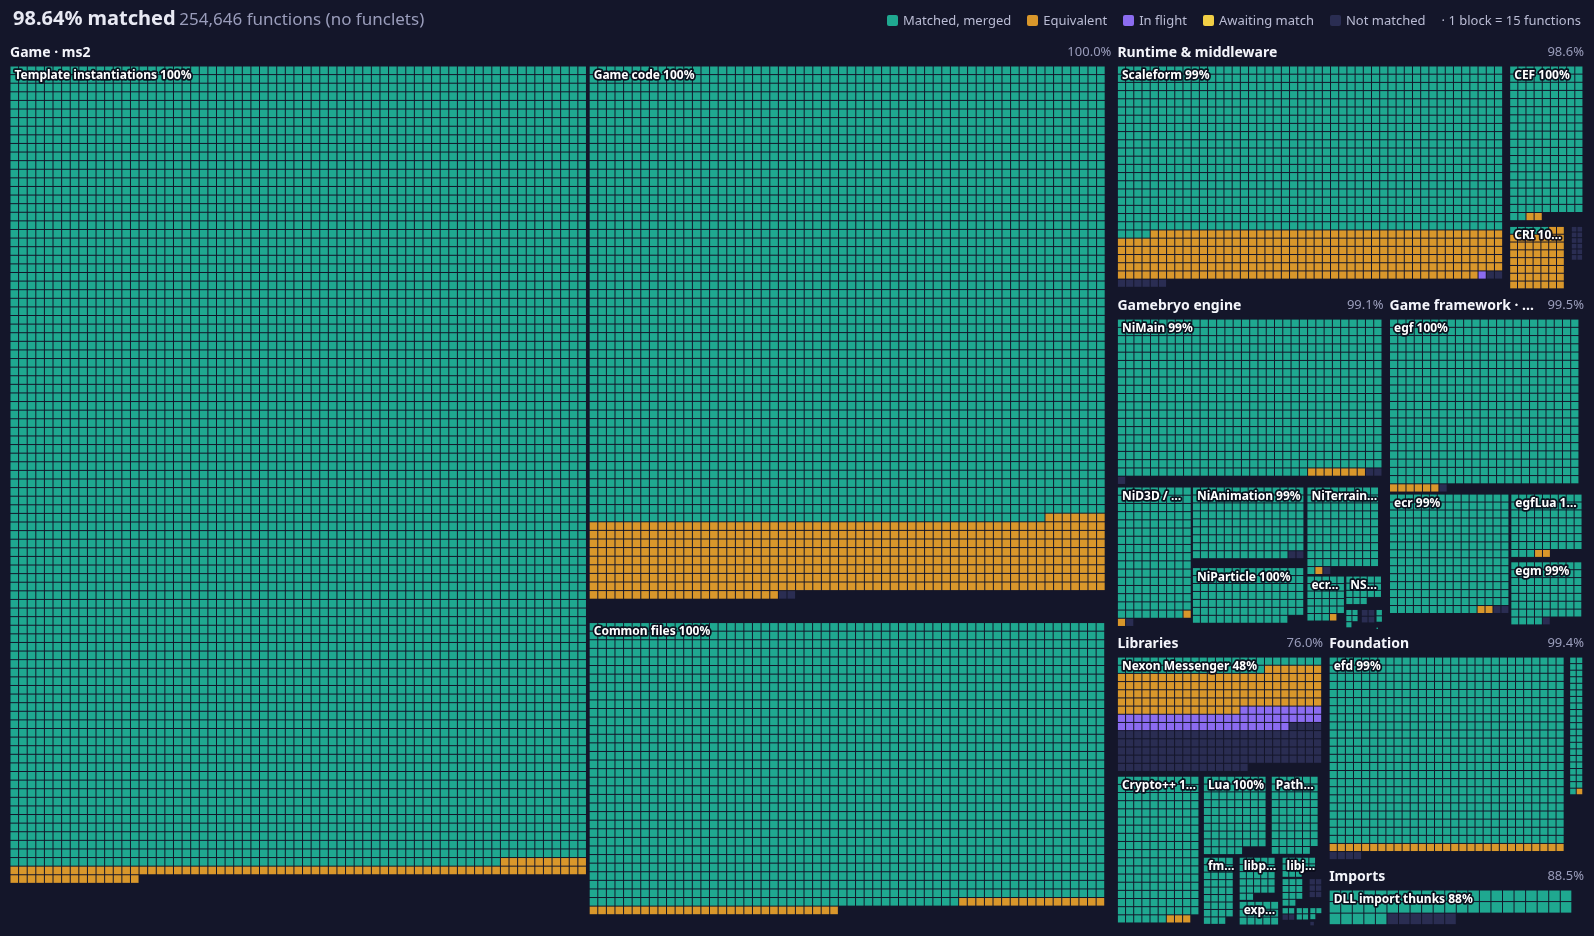
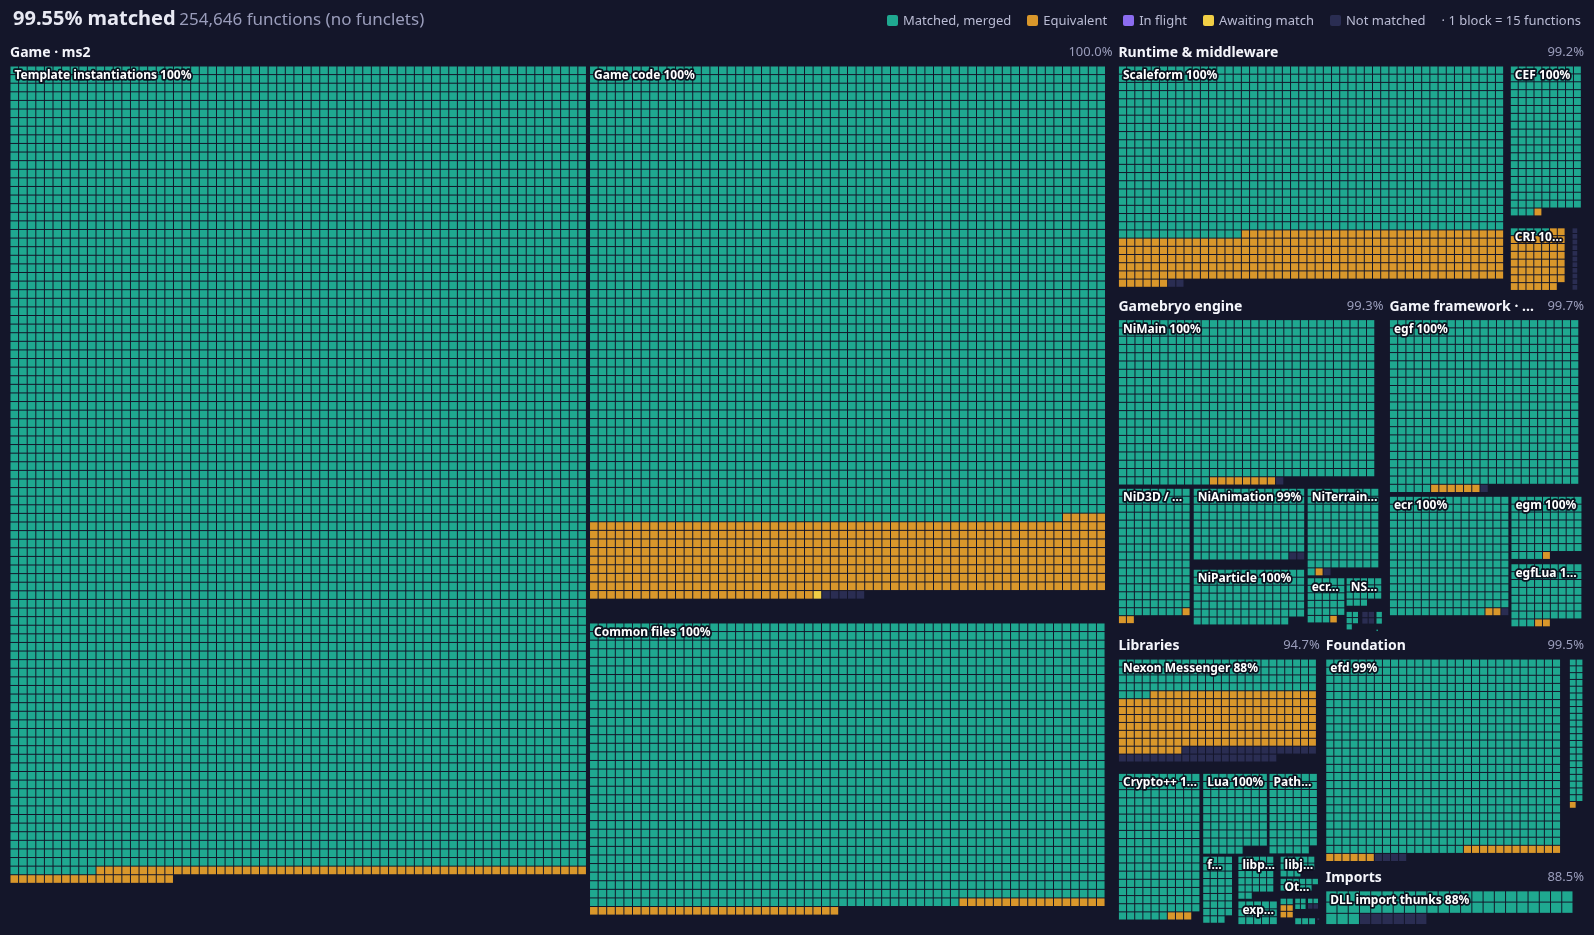
README: refresh progress image and table

Changed region(s): [[0.0, 0.031, 1.0, 0.9925]]

diff --git a/README.md b/README.md
@@ -25,14 +25,14 @@ Merged totals by area (functions in the original executable; regenerated on each
 <!-- progress:start -->
 | Area | Functions | Matched | Equivalent | Done |
 |---|---:|---:|---:|---:|
-| Game · ms2 | 180,071 | 170,341 (94.6%) | 9,693 (5.4%) | 100.0% |
-| Runtime & middleware | 21,903 | 16,680 (76.2%) | 4,915 (22.4%) | 98.6% |
-| Gamebryo engine | 16,841 | 16,522 (98.1%) | 165 (1.0%) | 99.1% |
-| Game framework · egf | 12,408 | 12,195 (98.3%) | 157 (1.3%) | 99.5% |
-| Libraries | 11,515 | 6,881 (59.8%) | 1,867 (16.2%) | 76.0% |
-| Foundation | 11,126 | 10,617 (95.4%) | 446 (4.0%) | 99.4% |
+| Game · ms2 | 180,239 | 170,653 (94.7%) | 9,503 (5.3%) | 100.0% |
+| Runtime & middleware | 21,902 | 16,840 (76.9%) | 4,885 (22.3%) | 99.2% |
+| Gamebryo engine | 16,846 | 16,557 (98.3%) | 169 (1.0%) | 99.3% |
+| Game framework · egf | 12,466 | 12,266 (98.4%) | 166 (1.3%) | 99.7% |
+| Libraries | 11,196 | 7,816 (69.8%) | 2,791 (24.9%) | 94.7% |
+| Foundation | 11,215 | 10,877 (97.0%) | 277 (2.5%) | 99.5% |
 | Imports | 782 | 692 (88.5%) | 0 (0.0%) | 88.5% |
-| **Total** | **254,646** | 233,928 (91.9%) | 17,243 (6.8%) | 98.6% |
+| **Total** | **254,646** | 235,701 (92.6%) | 17,791 (7.0%) | 99.5% |
 <!-- progress:end -->
 
 ## Layout
